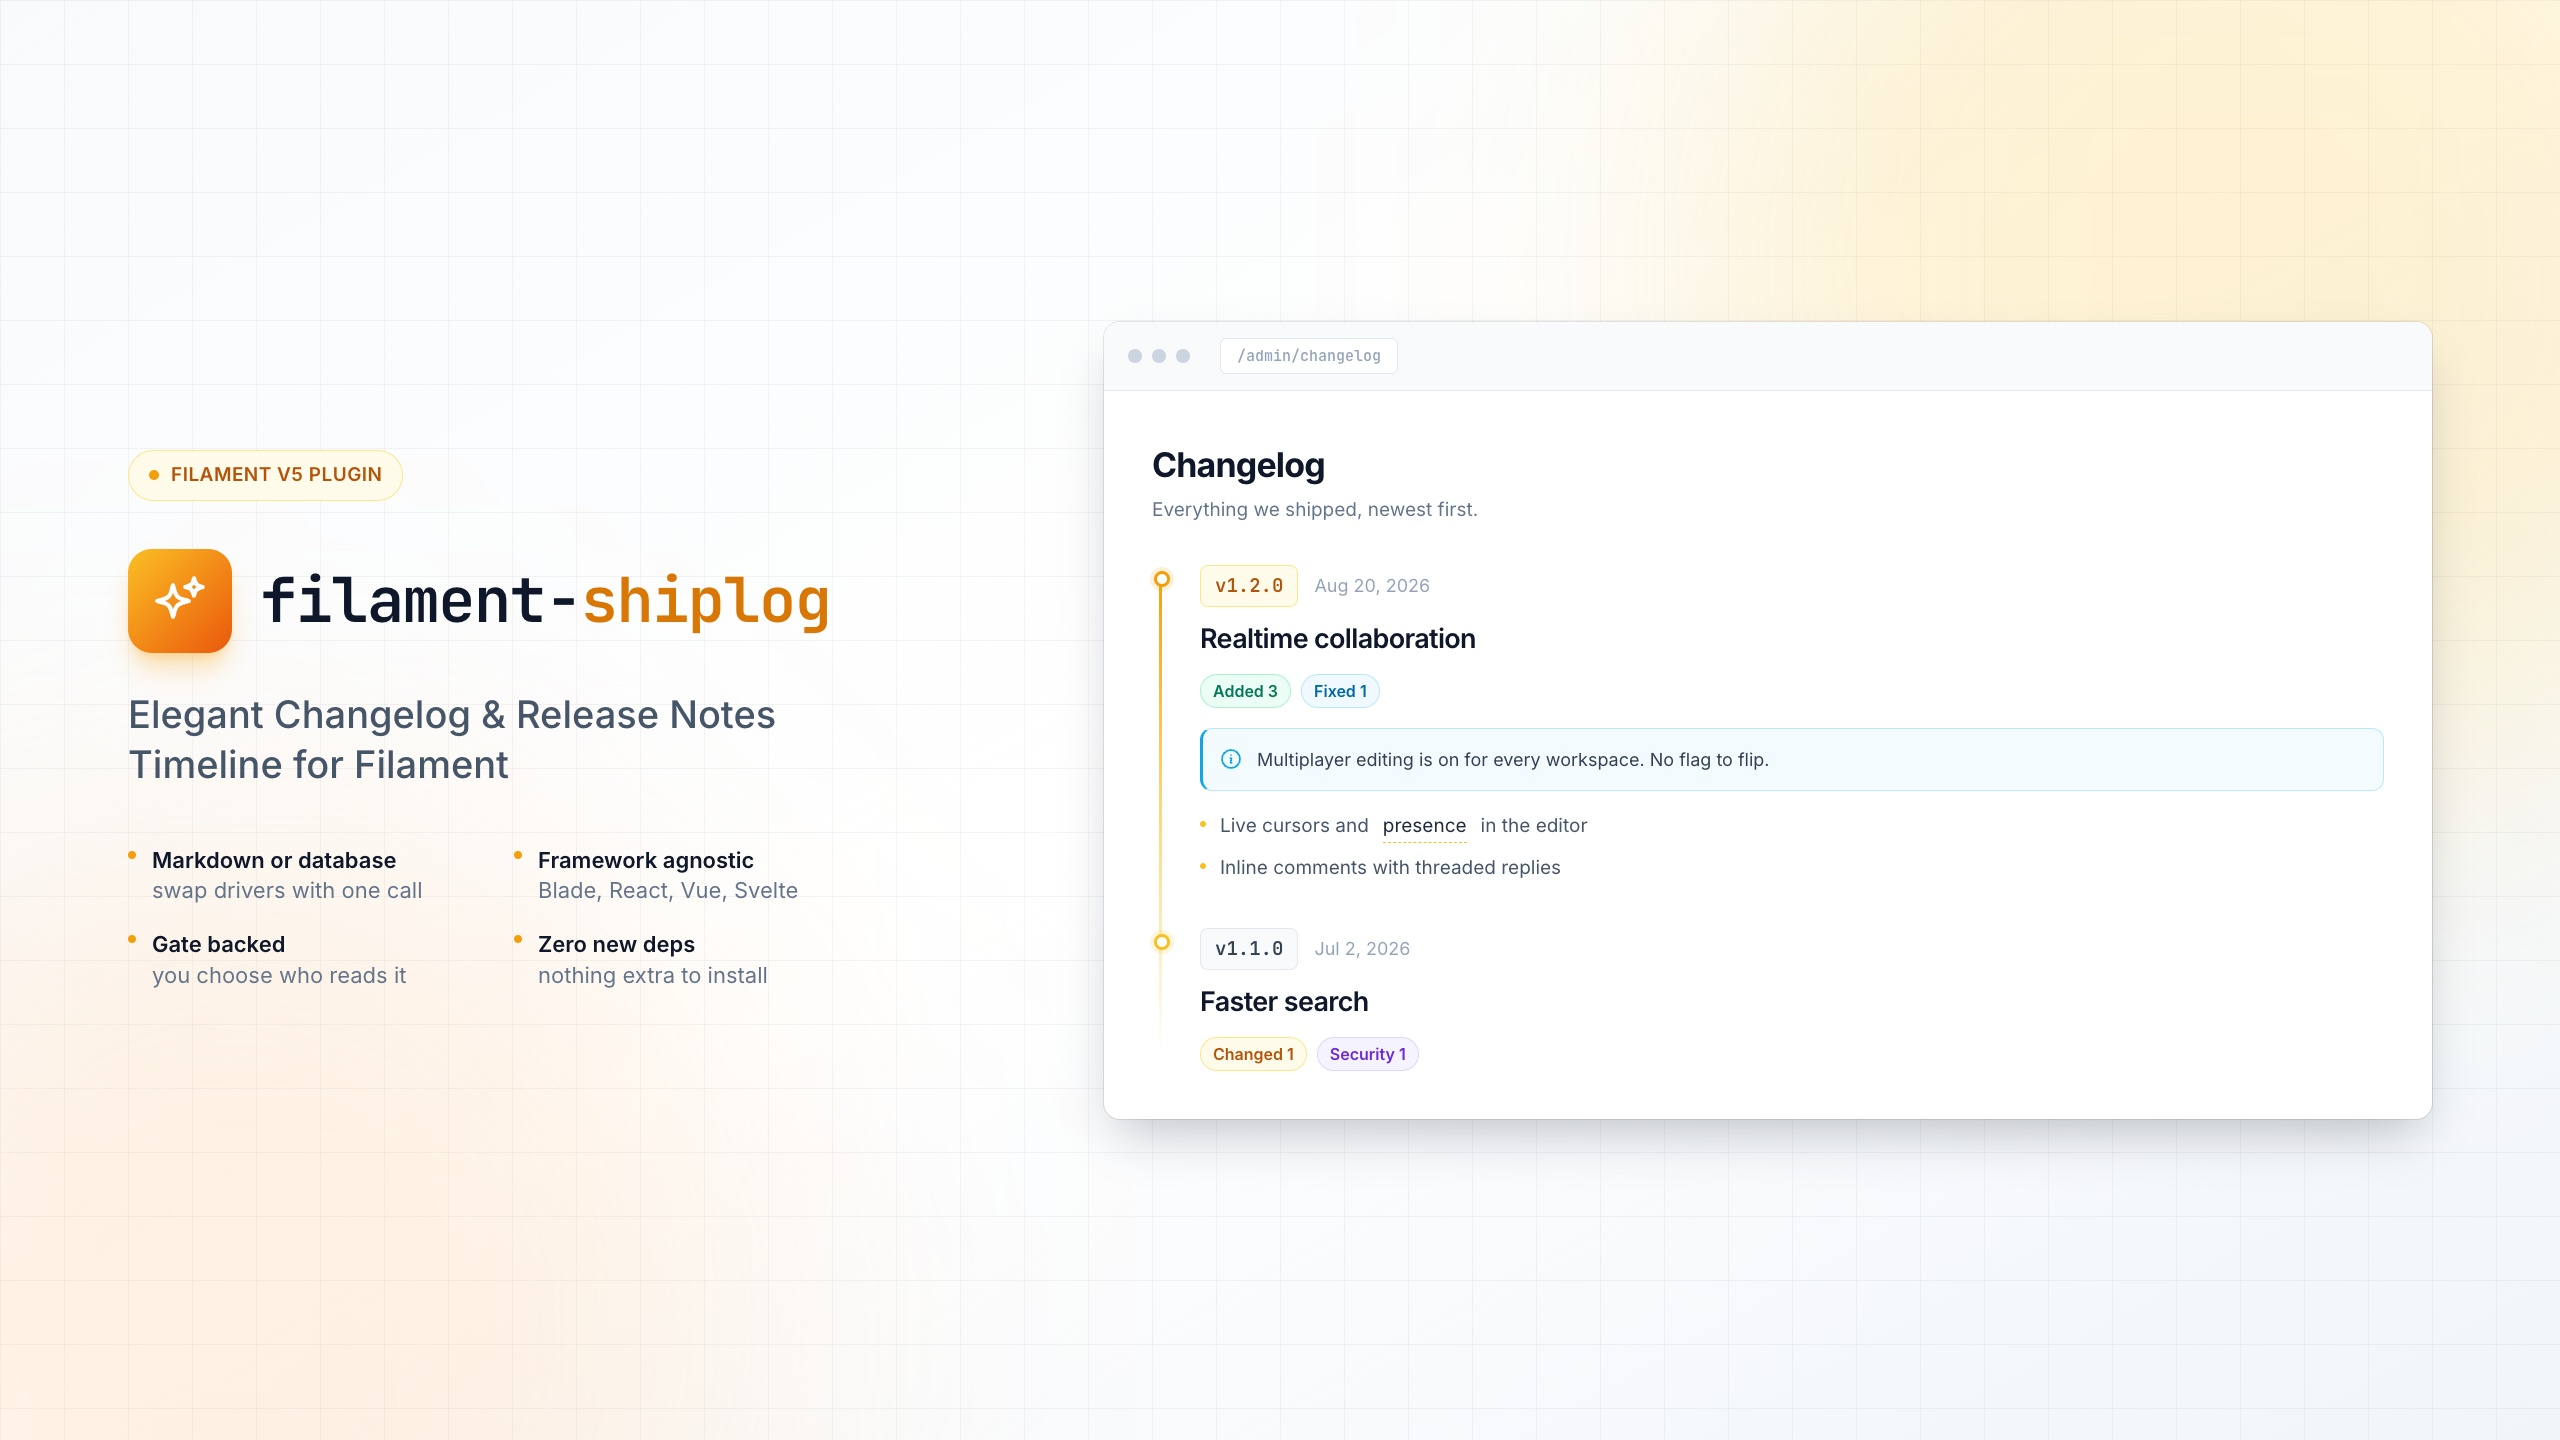
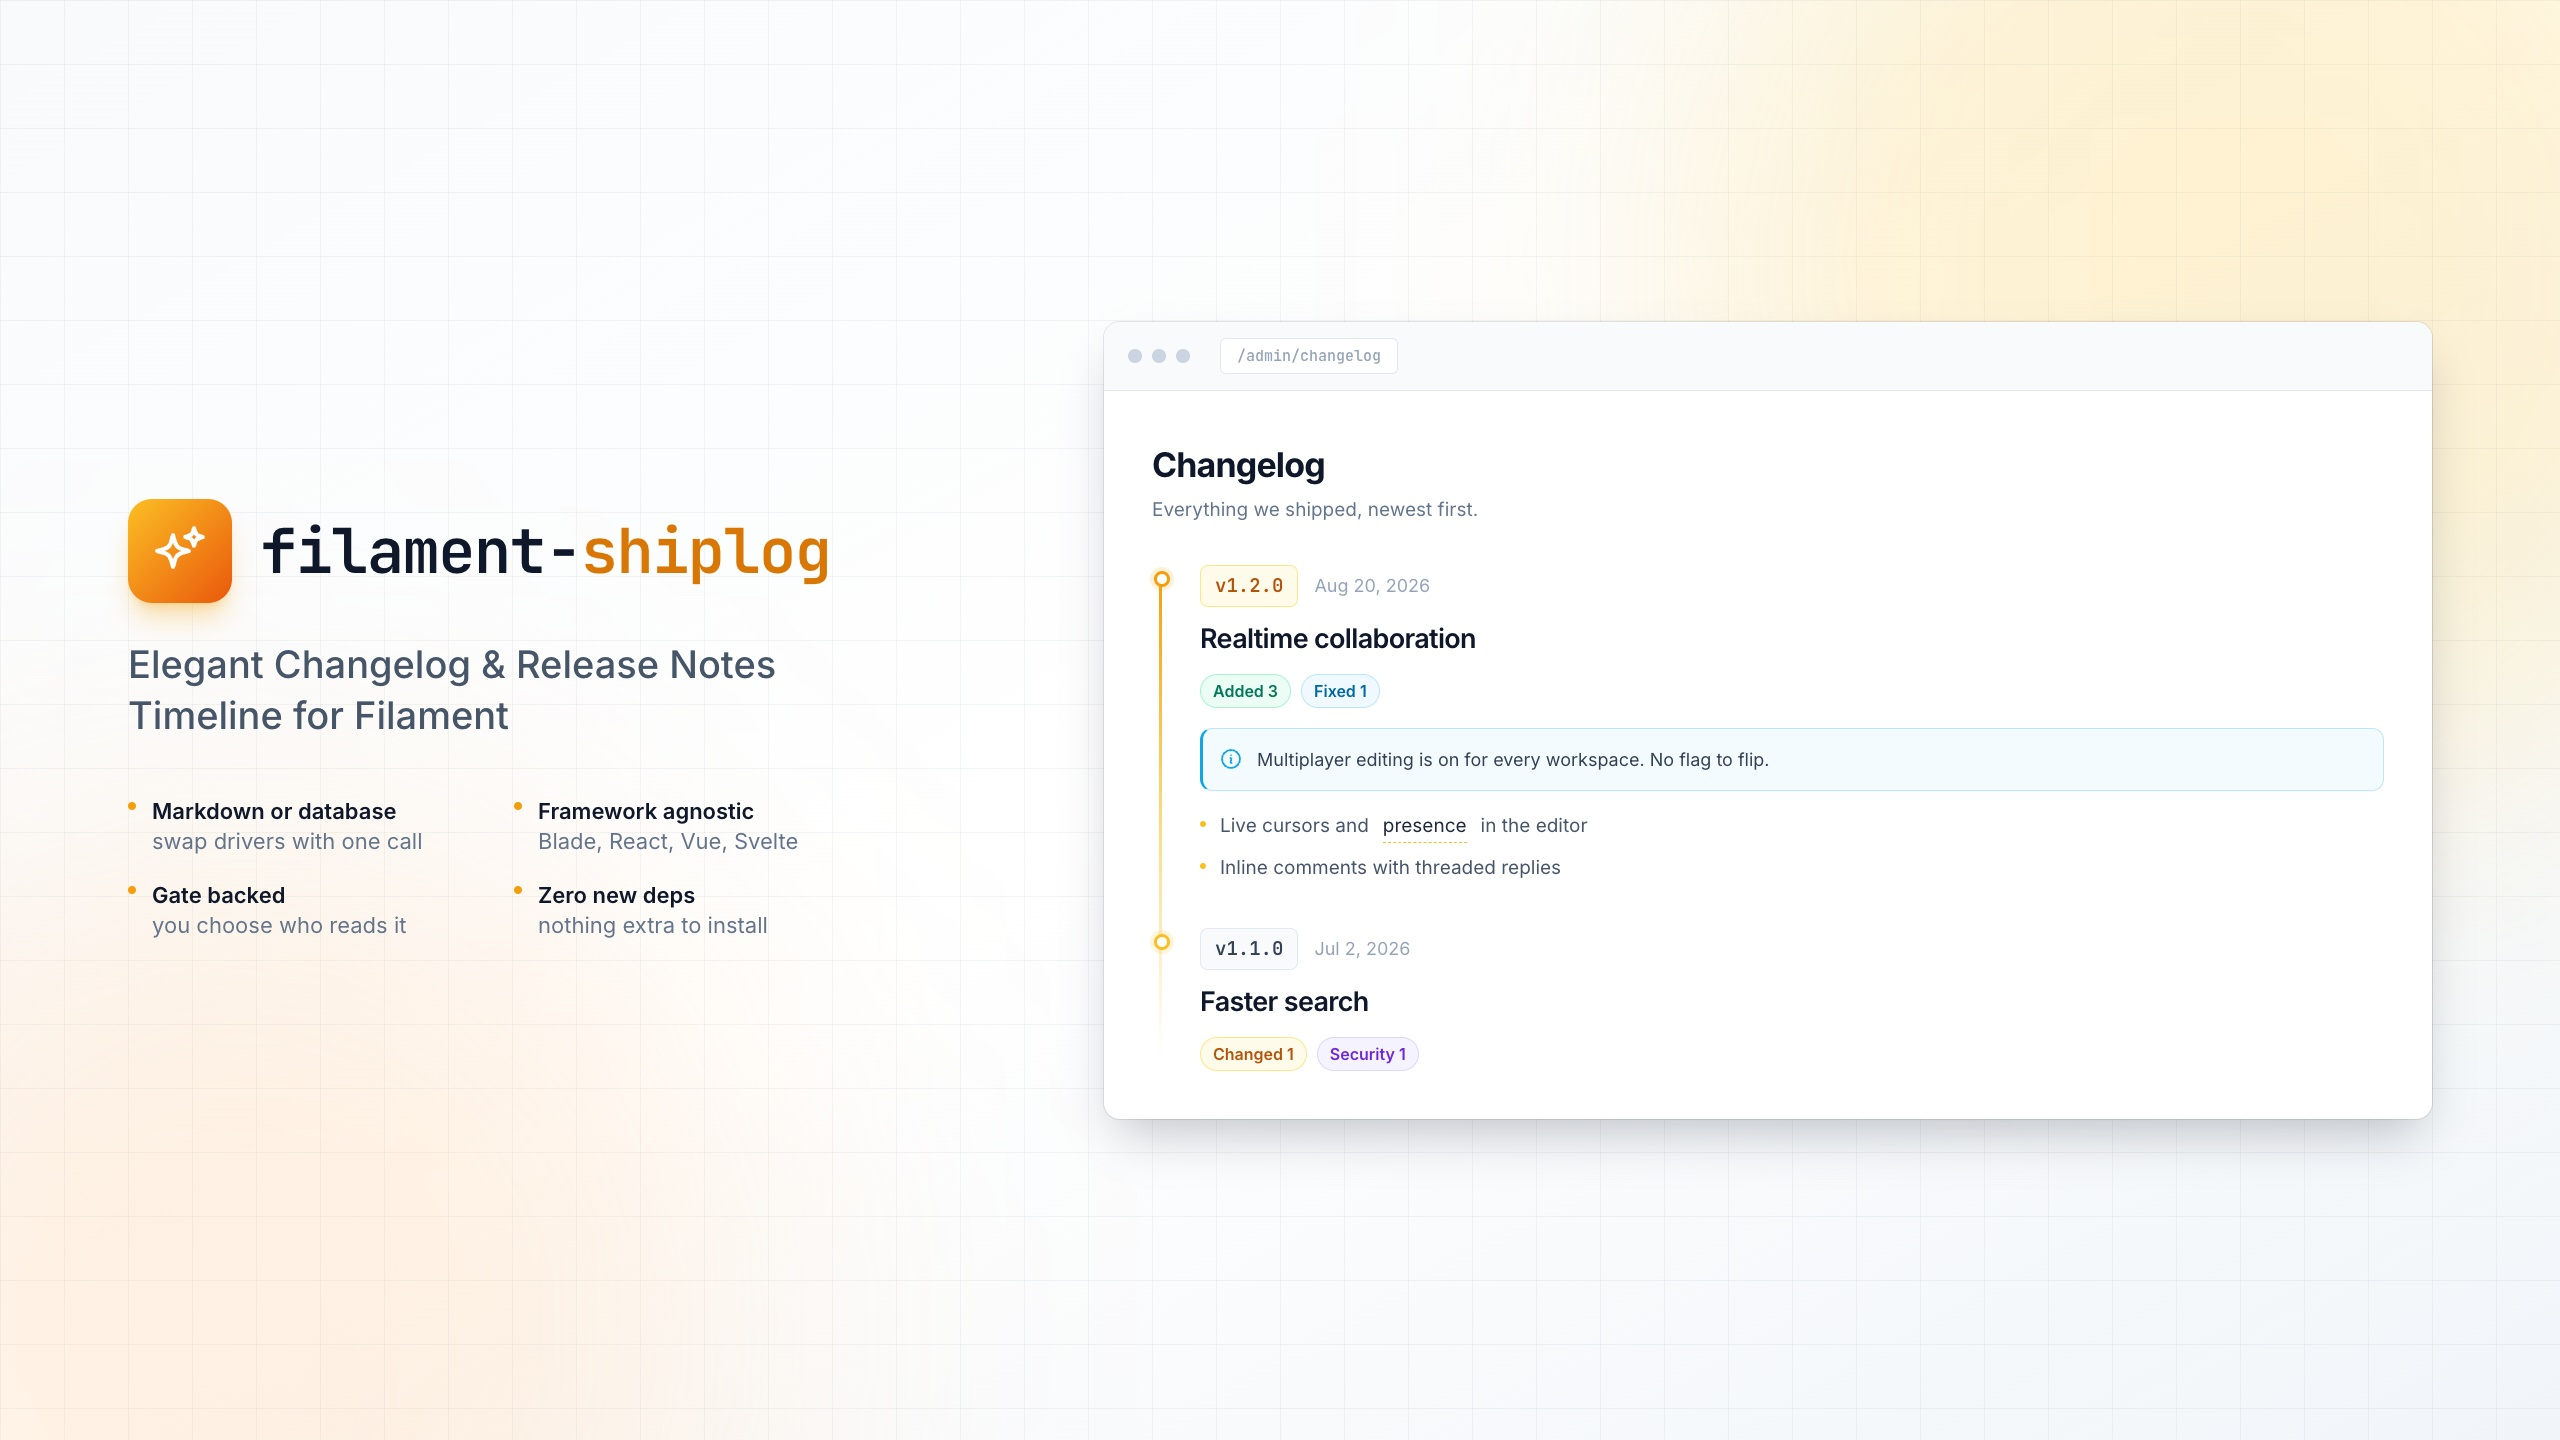
docs: drop filament badge from press images

Changed region(s): [[0.0312, 0.3125, 0.3438, 0.6875], [0.1875, 0.5625, 0.3125, 0.6875]]

diff --git a/art/press/thumbnail.html b/art/press/thumbnail.html
@@ -26,11 +26,7 @@
         </div>
       </div>
       <p class="text-[26px] leading-snug font-semibold text-slate-800 mb-4">Changelog &amp; release notes,<br>as a timeline</p>
-      <p class="text-[19px] leading-relaxed text-slate-500 mb-7">Markdown or database. Drops into Blade, React, Vue and Svelte.</p>
-      <div class="inline-flex items-center gap-2.5 rounded-full border border-amber-200 bg-amber-50 px-4 py-2">
-        <span class="w-2 h-2 rounded-full bg-amber-500"></span>
-        <span class="text-[16px] font-semibold text-amber-700 tracking-wide">FILAMENT V5</span>
-      </div>
+      <p class="text-[19px] leading-relaxed text-slate-500">Markdown or database. Drops into Blade, React, Vue and Svelte.</p>
     </div>
 
     <div class="flex-1">

diff --git a/art/press/banner.html b/art/press/banner.html
@@ -17,11 +17,6 @@
 
     <!-- left: identity -->
     <div class="w-[880px] shrink-0">
-      <div class="inline-flex items-center gap-3 rounded-full border border-amber-200 bg-amber-50 px-5 py-2.5 mb-12">
-        <span class="w-2.5 h-2.5 rounded-full bg-amber-500"></span>
-        <span class="text-[19px] font-semibold text-amber-700 tracking-wide">FILAMENT V5 PLUGIN</span>
-      </div>
-
       <div class="flex items-center gap-7 mb-9 whitespace-nowrap">
         <div class="w-[104px] h-[104px] shrink-0 rounded-3xl bg-gradient-to-br from-amber-400 to-orange-600 grid place-items-center shadow-xl shadow-amber-500/30">
           <svg viewBox="0 0 24 24" fill="none" stroke="white" stroke-width="1.8" class="w-14 h-14">
